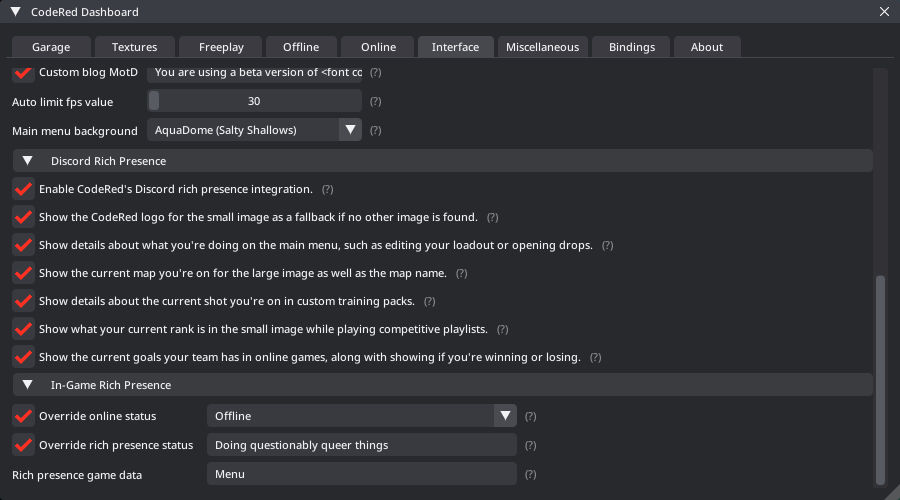
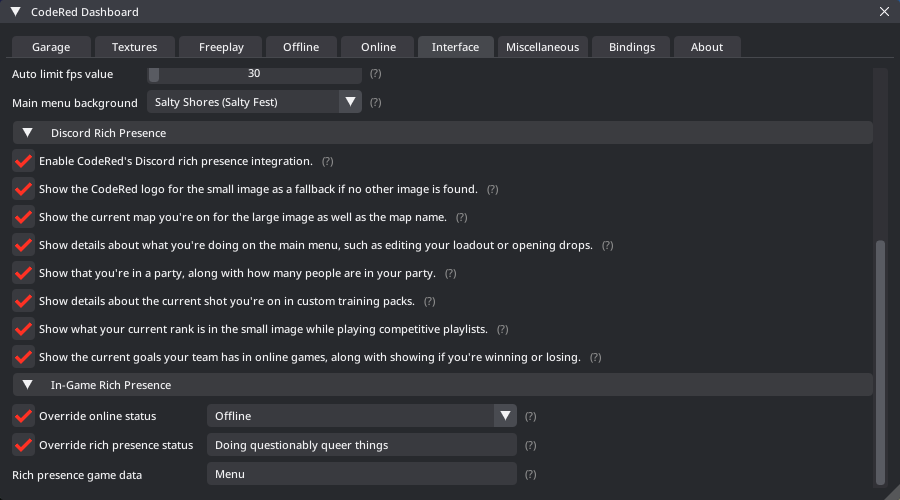
Initial Commit

diff --git a/changelog.html b/changelog.html
@@ -53,6 +53,7 @@
 		    <nav id="docs-nav" class="docs-nav navbar">
 			    <ul class="section-items list-unstyled nav flex-column pb-3">
                     <li class="nav-item section-title mt-3"><a class="nav-link scrollto" href="#section-3"><span class="theme-icon-holder me-2"><i class="fas fa-book"></i></span>Changelog (Beta)</a></li>
+                    <li class="nav-item"><a class="nav-link scrollto" href="#item-3-2-1">Version 2.2.1</a></li>
                     <li class="nav-item"><a class="nav-link scrollto" href="#item-3-2-0">Version 2.2.0</a></li>
                     <li class="nav-item"><a class="nav-link scrollto" href="#item-3-1-9">Version 2.1.9</a></li>
                     <li class="nav-item"><a class="nav-link scrollto" href="#item-3-1-8">Version 2.1.8</a></li>
@@ -221,6 +222,15 @@
 		    <div class="container">
                 <article class="docs-article" id="section-3">
                     <h1 class="docs-heading">Changelog (Beta)</h1>
+
+                        <section class="docs-section" id="item-3-2-1">
+                            <h2 class="section-heading">Version 2.2.1 (June 10th 2024)</h2>
+                            <h5>- Added a new setting <code>presence_discord_party</code> which enables showing that you're in a party for Discord rich presence.</h5>
+                            <h5>- Fixed a crash that could happen with Discord rich presence if you didn't have Discord open in the background.</h5>
+                            <h5>- Improved various elements to Discord rich presence text and timers.</h5>
+                            <h5>- Improvements to the custom platform avatar system.</h5>
+                            <h5>- Upgraded the internal ImGui framework to version 1.9.8.</h5>
+                        </section>
 
                         <section class="docs-section" id="item-3-2-0">
                             <h2 class="section-heading">Version 2.2.0 (June 4th 2024)</h2>
@@ -500,7 +510,7 @@
                             <h2 class="section-heading">Version 1.9.4 (December 8th 2023)</h2>
                             <h5>- Remade all the custom example playlist textures to match the games new UI.</h5>
                             <h5>- Remade the matchmaker window to be fully dynamic, you can now search limited time events and rotating competitive playlists that match the games new UI.</h5>
-                            <h5>- You can now change where notifications appear with the `imgui_notification_corner` setting. 1 is top right, 2 is top left, 3 is bottom left, and 4 is bottom right.</h5>
+                            <h5>- You can now change where notifications appear with the <code>imgui_notification_corner</code> setting. 1 is top right, 2 is top left, 3 is bottom left, and 4 is bottom right.</h5>
                             <h5>- The gamestate debugger can now be repositioned just like the session tracker, hold ctrl and double right click on the window for options.</h5>
                             <h5>- Fixed garage profiles sometimes not applying fully when first loading into freeplay or custom training packs.</h5>
                             <h5>- Fixed the population stats setting not displaying the correct numbers, it was adding the wrong playlists together that you had selected.</h5>

diff --git a/documentation.html b/documentation.html
@@ -1411,12 +1411,16 @@
                                         <td>Enables showing the CodeRed logo in custom Discord rich presence if no small image is found.</td>
                                     </tr>
                                     <tr>
+                                        <th class="theme-bg-light"><b>presence_discord_maps &lttrue-false&gt</b></th>
+                                        <td>Enables showing the current map image that you're on for Discord rich presence.</td>
+                                    </tr>
+                                    <tr>
                                         <th class="theme-bg-light"><b>presence_discord_menu &lttrue-false&gt</b></th>
                                         <td>Enables showing extra details about what you're doing on the main menu for Discord rich presence.</td>
                                     </tr>
                                     <tr>
-                                        <th class="theme-bg-light"><b>presence_discord_maps &lttrue-false&gt</b></th>
-                                        <td>Enables showing the current map image that you're on for Discord rich presence.</td>
+                                        <th class="theme-bg-light"><b>presence_discord_party &lttrue-false&gt</b></th>
+                                        <td>Enables showing that you're in a party, as well as the number of party members for Discord rich presence.</td>
                                     </tr>
                                     <tr>
                                         <th class="theme-bg-light"><b>presence_discord_shots &lttrue-false&gt</b></th>
@@ -1453,6 +1457,27 @@
                                 </tbody>
                             </table>
                         </div>
+                        <!--
+                        <h3>Commands</h3>
+                        <div class="table-responsive my-4">
+                            <table class="table table-bordered">
+                                <tbody>
+                                    <tr>
+                                        <th class="theme-bg-light"><b>presence_discord_accept &ltarguments&gt</b></th>
+                                        <td>Accepts a party join request with the users Discord id as the given arguments.</td>
+                                    </tr>
+                                    <tr>
+                                        <th class="theme-bg-light"><b>presence_discord_deny &ltarguments&gt</b></th>
+                                        <td>Denies a party join request with the users Discord id as the given arguments.</td>
+                                    </tr>
+                                    <tr>
+                                        <th class="theme-bg-light"><b>presence_discord_ignore &ltarguments&gt</b></th>
+                                        <td>Ignores a party join request with the users Discord id as the given arguments.</td>
+                                    </tr>
+                                </tbody>
+                            </table>
+                        </div>
+                        -->
                     </section>
 
                     <section class="docs-section" id="item-4-7">
